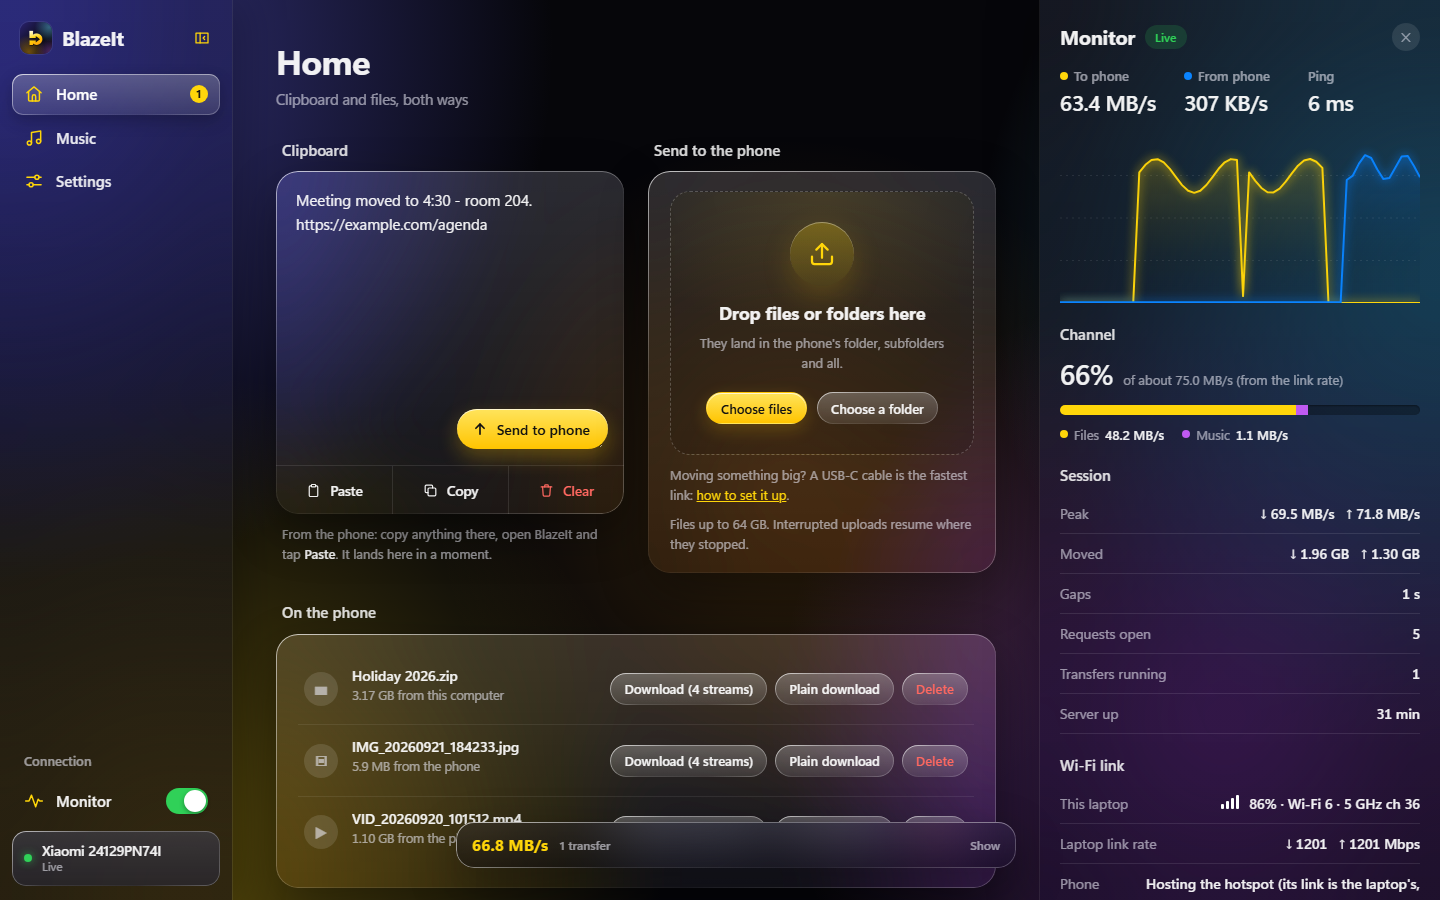
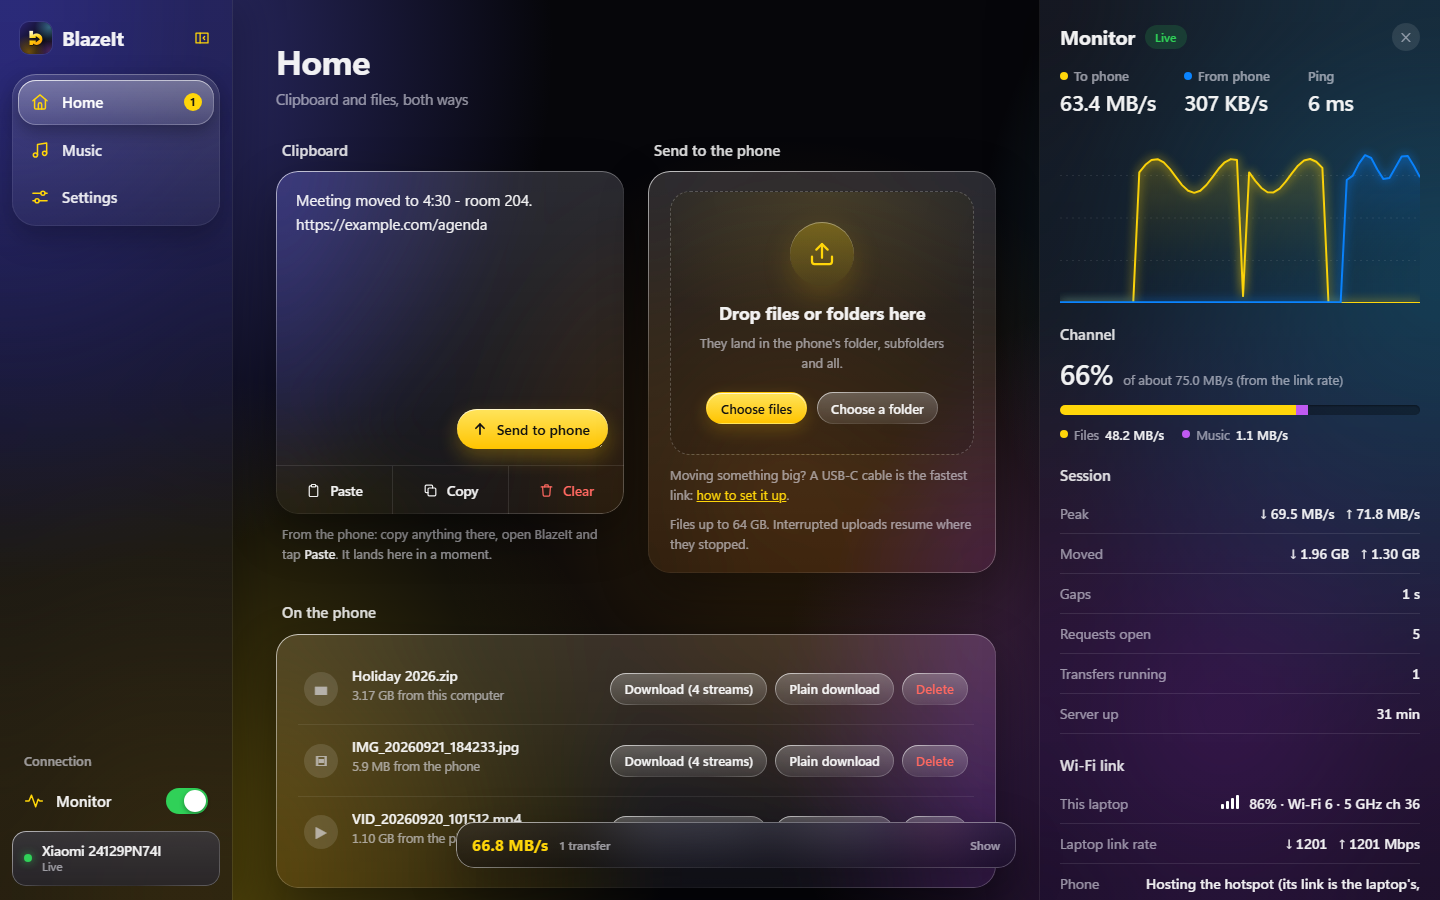
Page: the sidebar as the phone's tab bar, the same lens and switch, size limit
The sidebar's tabs sit in a glass panel like the phone's tab bar, with the same lens:
it slides to the current tab and can be dragged along with the mouse. Every segmented
control has it too, standing proud of its track. Background is the same liquid switch as
on the phone. Settings gains Largest file accepted, from 4 GB to no limit, which sets the
phone's own limit through a new endpoint.

Changed region(s): [[0.0, 0.0622, 0.1562, 0.2489]]

diff --git a/app/src/main/assets/bridge.html b/app/src/main/assets/bridge.html
@@ -722,6 +722,75 @@
   .album-actions .btn { height: 40px; padding: 0 22px; gap: 8px; }
   .album-actions .btn svg { width: 17px; height: 17px; }
   @media (max-width: 700px) { .album-head { flex-direction: column; align-items: flex-start; } }
+
+  /* ================================================================ the liquid lens
+     One glass lens per row of choices, sliding with a little overshoot, following the
+     pointer while dragged. Buttons sit above it and carry no fill of their own. */
+  .liquid { position: relative; isolation: isolate; }
+  .liquid > .lens {
+    position: absolute; left: 0; top: 0; z-index: 0; pointer-events: none; border-radius: 999px;
+    background: linear-gradient(180deg, rgba(255,255,255,.28), rgba(255,255,255,.10));
+    box-shadow: inset 0 1px 0 rgba(255,255,255,.55), inset 0 -1px 0 rgba(255,255,255,.1), 0 6px 18px rgba(0,0,0,.3);
+    transition: transform .5s cubic-bezier(.3, 1.45, .45, 1), width .3s ease, height .3s ease, scale .25s ease, opacity .2s;
+  }
+  .liquid > .lens::before {
+    content: ""; position: absolute; inset: 0; border-radius: inherit; padding: 1px;
+    background: var(--rim); -webkit-mask: linear-gradient(#000 0 0) content-box, linear-gradient(#000 0 0);
+    -webkit-mask-composite: xor; mask-composite: exclude;
+  }
+  .liquid > .lens.instant { transition: scale .25s ease, opacity .2s; }
+  .liquid.dragging > .lens { scale: 1.08; background: linear-gradient(180deg, rgba(255,255,255,.34), rgba(255,255,255,.12)); }
+  .liquid.dragging { cursor: grabbing; user-select: none; }
+  .liquid > button { position: relative; z-index: 1; background: transparent !important; box-shadow: none !important; }
+  .liquid > button::before { display: none !important; }
+  .liquid > button.lit { color: #fff; }
+
+  /* segmented controls: the lens stands proud of the track, like the phone */
+  .seg.liquid { overflow: visible; }
+  .seg.liquid > .lens { margin-top: -3px; padding: 3px 0; box-sizing: content-box; }
+
+  /* the sidebar's tabs, as the phone's tab bar standing upright */
+  .side .tabs {
+    padding: 6px; border-radius: 24px;
+    background: linear-gradient(180deg, rgba(255,255,255,.12), rgba(255,255,255,.04));
+    box-shadow: inset 0 1px 0 rgba(255,255,255,.22), inset 0 0 0 1px rgba(255,255,255,.08), 0 12px 30px rgba(0,0,0,.25);
+  }
+  .side .tabs.liquid > .lens { border-radius: 18px; }
+  .side .tabs > button { border-radius: 18px; padding: 11px 12px; }
+  .side .tabs > button.on, .side .tabs > button.lit { font-weight: 600; }
+  .side .tabs > button.lit svg { stroke: var(--accent); }
+  body.side-collapsed .side .tabs { padding: 5px; }
+  @media (max-width: 900px) { .side .tabs { border-radius: 999px; } .side .tabs.liquid > .lens { border-radius: 999px; } }
+
+  /* the liquid switch: a capsule with its label, and a glass knob that bulges out of it */
+  .set-label { font-size: 14px; font-weight: 600; margin: 0 0 12px; }
+  #size-seg { margin-bottom: 2px; }
+  .lswitch {
+    position: relative; width: 176px; height: 44px; margin: 8px 0 4px; border-radius: 999px; cursor: pointer; user-select: none;
+    background: rgba(0,0,0,.3); box-shadow: inset 0 1px 3px rgba(0,0,0,.45), inset 0 -1px 0 rgba(255,255,255,.12), inset 0 0 0 1px rgba(255,255,255,.06);
+    outline: none;
+  }
+  .lswitch:focus-visible { box-shadow: 0 0 0 3px rgba(255,214,10,.45), inset 0 1px 3px rgba(0,0,0,.45); }
+  .lswitch-label { position: absolute; top: 0; bottom: 0; right: 22px; display: flex; align-items: center; font-size: 16px; font-weight: 600; transition: right .3s, left .3s; }
+  .lswitch.on .lswitch-label { right: auto; left: 22px; }
+  .lswitch-knob {
+    position: absolute; left: 0; top: -5px; width: 54px; height: 54px; border-radius: 50%; display: grid; place-items: center;
+    transform: translateX(-4px);
+    background: linear-gradient(180deg, rgba(255,255,255,.42), rgba(255,255,255,.14));
+    box-shadow: inset 0 1px 0 rgba(255,255,255,.7), inset 0 -2px 6px rgba(255,255,255,.08), 0 10px 26px rgba(0,0,0,.45);
+    -webkit-backdrop-filter: blur(6px) saturate(160%); backdrop-filter: blur(6px) saturate(160%);
+    transition: transform .5s cubic-bezier(.3, 1.45, .45, 1), scale .2s;
+  }
+  .lswitch-knob::before {
+    content: ""; position: absolute; inset: 0; border-radius: 50%; padding: 1.2px; pointer-events: none;
+    background: var(--rim); -webkit-mask: linear-gradient(#000 0 0) content-box, linear-gradient(#000 0 0);
+    -webkit-mask-composite: xor; mask-composite: exclude;
+  }
+  .lswitch.on .lswitch-knob { transform: translateX(126px); }
+  .lswitch.dragging .lswitch-knob { transition: scale .2s; scale: 1.06; }
+  .lswitch-knob svg { width: 24px; height: 24px; fill: none; stroke: #fff; stroke-width: 1.8; stroke-linecap: round; stroke-linejoin: round; }
+  .lswitch .moon, .lswitch.on .sun { display: none; }
+  .lswitch.on .moon { display: block; }
 </style>
 </head>
 <body>
@@ -871,11 +940,26 @@
     <div class="block">
     <div class="bar">Appearance</div>
     <div class="pad">
-      <div class="seg" id="theme-seg">
-        <button data-v="aurora">Aurora</button>
-        <button data-v="oled">OLED black</button>
+      <div class="lswitch" id="theme-switch" role="switch" aria-checked="false" aria-label="OLED black background" tabindex="0">
+        <span class="lswitch-label">Aurora</span>
+        <span class="lswitch-knob"><svg class="sun" viewBox="0 0 24 24" aria-hidden="true"><circle cx="12" cy="12" r="4"/><path d="M12 2.5v2M12 19.5v2M2.5 12h2M19.5 12h2M5.3 5.3l1.4 1.4M17.3 17.3l1.4 1.4M5.3 18.7l1.4-1.4M17.3 6.7l1.4-1.4"/></svg><svg class="moon" viewBox="0 0 24 24" aria-hidden="true"><path d="M19.5 14.5A8 8 0 1 1 9.5 4.5a6.5 6.5 0 0 0 10 10Z"/></svg></span>
       </div>
       <p class="note">Liquid glass either way. OLED black turns the pixels off behind it. The phone and every open page follow this.</p>
+    </div>
+    </div>
+
+    <div class="block">
+    <div class="bar">Receiving on the phone</div>
+    <div class="pad">
+      <div class="set-label">Largest file accepted</div>
+      <div class="seg" id="size-seg">
+        <button data-gb="4">4 GB</button>
+        <button data-gb="12">12 GB</button>
+        <button data-gb="32">32 GB</button>
+        <button data-gb="64">64 GB</button>
+        <button data-gb="0">No limit</button>
+      </div>
+      <p class="note" id="size-note">The same setting as on the phone. With no limit, anything that fits in the phone's free space is accepted.</p>
     </div>
     </div>
 
@@ -1317,6 +1401,120 @@ function selectTab(id) {
     p.hidden = p.dataset.panel !== id;
   });
   if (id === "music") musicOpen();
+}
+
+// ------------------------------------------------------------------ liquid lens
+//
+// Every row of choices -- the sidebar's tabs and each segmented control -- has one glass
+// lens that slides to the current choice with a little overshoot. Press and drag along
+// the row and the lens follows the pointer, swelling slightly; whatever it rests on when
+// you let go is chosen. The same as the phone's tab bar.
+
+function liquid(host) {
+  if (!host || host._lens) return;
+  var lens = document.createElement("i");
+  lens.className = "lens";
+  host.classList.add("liquid");
+  var drag = null;
+  function items() { return Array.prototype.filter.call(host.children, function (c) { return c.tagName === "BUTTON"; }); }
+  function vertical() { return getComputedStyle(host).flexDirection === "column"; }
+  function place(el, instant) {
+    if (lens.parentNode !== host) host.insertBefore(lens, host.firstChild);
+    if (!el || !el.offsetWidth) { lens.style.opacity = 0; return; }
+    if (instant) lens.classList.add("instant");
+    lens.style.opacity = 1;
+    lens.style.transform = "translate(" + el.offsetLeft + "px," + el.offsetTop + "px)";
+    lens.style.width = el.offsetWidth + "px";
+    lens.style.height = el.offsetHeight + "px";
+    if (instant) { void lens.offsetWidth; lens.classList.remove("instant"); }
+  }
+  function update() {
+    if (drag) return;
+    place(items().filter(function (b) { return b.classList.contains("on"); })[0], lens.style.opacity === "");
+  }
+  function nearest(its, p, v) {
+    var best = its[0], bd = Infinity;
+    its.forEach(function (b) {
+      var c = v ? b.offsetTop + b.offsetHeight / 2 : b.offsetLeft + b.offsetWidth / 2;
+      if (Math.abs(c - p) < bd) { bd = Math.abs(c - p); best = b; }
+    });
+    return best;
+  }
+  host.addEventListener("pointerdown", function (e) {
+    if (e.button !== 0) return;
+    drag = { x: e.clientX, y: e.clientY, moved: false, id: e.pointerId, near: null };
+  });
+  host.addEventListener("pointermove", function (e) {
+    if (!drag) return;
+    var v = vertical(), its = items();
+    if (!its.length) return;
+    var d = v ? e.clientY - drag.y : e.clientX - drag.x;
+    if (!drag.moved) {
+      if (Math.abs(d) < 6) return;
+      drag.moved = true;
+      try { host.setPointerCapture(drag.id); } catch (err) {}
+      host.classList.add("dragging");
+    }
+    var r = host.getBoundingClientRect();
+    var p = v ? e.clientY - r.top + host.scrollTop : e.clientX - r.left + host.scrollLeft;
+    var near = nearest(its, p, v);
+    var size = v ? near.offsetHeight : near.offsetWidth;
+    var lo = v ? its[0].offsetTop : its[0].offsetLeft;
+    var last = its[its.length - 1];
+    var hi = v ? last.offsetTop + last.offsetHeight - size : last.offsetLeft + last.offsetWidth - size;
+    var at = Math.max(lo, Math.min(hi, p - size / 2));
+    lens.classList.add("instant");
+    lens.style.transform = v ? "translate(" + near.offsetLeft + "px," + at + "px)" : "translate(" + at + "px," + near.offsetTop + "px)";
+    lens.style.width = near.offsetWidth + "px";
+    lens.style.height = near.offsetHeight + "px";
+    its.forEach(function (b) { b.classList.toggle("lit", b === near); });
+    drag.near = near;
+  });
+  function end() {
+    if (!drag) return;
+    var d = drag;
+    drag = null;
+    host.classList.remove("dragging");
+    lens.classList.remove("instant");
+    items().forEach(function (b) { b.classList.remove("lit"); });
+    if (d.moved && d.near) d.near.click();
+    update();
+  }
+  host.addEventListener("pointerup", end);
+  host.addEventListener("pointercancel", end);
+  new MutationObserver(function () { if (!drag) requestAnimationFrame(update); })
+    .observe(host, { childList: true, subtree: true, attributes: true, attributeFilter: ["class"] });
+  window.addEventListener("resize", update);
+  host._lens = { update: update };
+  requestAnimationFrame(update);
+}
+
+/** The liquid switch: tap, Space or Enter flips it; the knob can also be dragged across. */
+function wireSwitch(sw, onChange) {
+  var knob = sw.querySelector(".lswitch-knob"), drag = null;
+  function travel() { return sw.clientWidth - knob.offsetWidth + 8; }
+  function flip() { onChange(!sw.classList.contains("on")); }
+  sw.addEventListener("keydown", function (e) { if (e.key === " " || e.key === "Enter") { e.preventDefault(); flip(); } });
+  sw.addEventListener("pointerdown", function (e) { drag = { x: e.clientX, on: sw.classList.contains("on"), moved: false, id: e.pointerId }; });
+  sw.addEventListener("pointermove", function (e) {
+    if (!drag) return;
+    var d = e.clientX - drag.x;
+    if (!drag.moved) { if (Math.abs(d) < 5) return; drag.moved = true; try { sw.setPointerCapture(drag.id); } catch (err) {} sw.classList.add("dragging"); }
+    var t = travel(), at = Math.max(0, Math.min(t, (drag.on ? t : 0) + d));
+    knob.style.transform = "translateX(" + (at - 4) + "px)";
+    drag.at = at / t;
+  });
+  function end() {
+    if (!drag) return;
+    var d = drag; drag = null;
+    sw.classList.remove("dragging");
+    knob.style.transform = "";
+    if (!d.moved) { flip(); return; }
+    var now = d.at > 0.5;
+    if (now !== d.on) onChange(now);
+  }
+  sw.addEventListener("pointerup", end);
+  sw.addEventListener("pointercancel", end);
 }
 
 // ------------------------------------------------------------------ clipboard
@@ -2335,6 +2533,14 @@ async function refreshState() {
   if (document.activeElement !== $("clip") && !$("clip").value) $("clip").value = s.clipboard || "";
   renderStreams();
   renderFiles();
+  renderSizeSeg();
+}
+
+function renderSizeSeg() {
+  var gb = state.maxUpload > 1e15 ? 0 : Math.round(state.maxUpload / 1073741824);
+  Array.prototype.forEach.call($("size-seg").children, function (b) {
+    if (b.tagName === "BUTTON") b.classList.toggle("on", parseInt(b.dataset.gb, 10) === gb);
+  });
 }
 
 // ------------------------------------------------------------------ theme
@@ -2347,8 +2553,12 @@ async function refreshState() {
 function applyTheme(oled) {
   document.body.classList.add("glass");
   document.body.classList.toggle("oled", !!oled);
-  var seg = $("theme-seg");
-  if (seg) Array.prototype.forEach.call(seg.children, function (b) { b.classList.toggle("on", (b.dataset.v === "oled") === !!oled); });
+  var sw = $("theme-switch");
+  if (sw) {
+    sw.classList.toggle("on", !!oled);
+    sw.setAttribute("aria-checked", oled ? "true" : "false");
+    sw.querySelector(".lswitch-label").textContent = oled ? "OLED" : "Aurora";
+  }
   try { localStorage.setItem("blazeit.oled", oled ? "1" : "0"); } catch (e) {}
 }
 
@@ -3000,9 +3210,20 @@ function showApp() {
     $("side-collapse").addEventListener("click", function () { setRail(!document.body.classList.contains("side-collapsed")); });
     try { setRail(localStorage.getItem("blazeit.rail") === "1"); } catch (e) {}
     $("usb-link").addEventListener("click", function (e) { e.preventDefault(); selectTab("settings"); });
-    Array.prototype.forEach.call($("theme-seg").children, function (b) {
-      b.addEventListener("click", function () { setOled(b.dataset.v === "oled"); });
+    wireSwitch($("theme-switch"), function (on) { setOled(on); });
+    Array.prototype.forEach.call($("size-seg").children, function (b) {
+      b.addEventListener("click", async function () {
+        var gb = parseInt(b.dataset.gb, 10);
+        try {
+          await api("/api/settings/max-upload", {
+            method: "POST", headers: { "Content-Type": "application/json" },
+            body: JSON.stringify(gb ? { gb: gb } : { unlimited: true }),
+          });
+        } catch (e) {}
+        refreshState();
+      });
     });
+    [["tabs"], ["music-view"], ["streams-seg"], ["size-seg"]].forEach(function (x) { liquid($(x[0])); });
     renderPending();
   } else setMonitor(monitorWanted());
   refreshState();

diff --git a/app/src/main/java/dev/periy/bridge/server/BridgeServer.kt b/app/src/main/java/dev/periy/bridge/server/BridgeServer.kt
@@ -320,6 +320,22 @@ class BridgeServer(
 
     private fun io.ktor.server.routing.Route.themeRoutes() {
         // One shared setting: flipping it here changes the phone and every open page.
+        // The phone's receiving limit, set from a page's Settings; the same choice as on the phone.
+        post("/api/settings/max-upload") {
+            val body = runCatching { call.receive<MaxUploadRequest>() }.getOrNull()
+            val bytes = when {
+                body == null -> null
+                body.unlimited -> Long.MAX_VALUE
+                body.gb in 1..4096 -> body.gb.toLong() shl 30
+                else -> null
+            }
+            if (bytes == null) {
+                call.respond(HttpStatusCode.BadRequest, ApiResult(false, "Pick a size or no limit"))
+            } else {
+                config.setMaxUpload(bytes)
+                call.respond(ApiResult(true))
+            }
+        }
         post("/api/theme") {
             val body = runCatching { call.receive<ThemeRequest>() }.getOrDefault(ThemeRequest())
             config.setOled(body.oled)

diff --git a/app/src/main/java/dev/periy/bridge/server/Model.kt b/app/src/main/java/dev/periy/bridge/server/Model.kt
@@ -61,6 +61,8 @@ class ServerConfig(
     val uploadStreams: () -> Int,
     val oled: () -> Boolean,
     val setOled: (Boolean) -> Unit,
+    /** Sets the largest upload accepted; Long.MAX_VALUE means only free space counts. */
+    val setMaxUpload: (Long) -> Unit,
     val sessionTtlMs: Long = 30L * 24 * 60 * 60 * 1000,
     val deviceName: String,
 )
@@ -113,6 +115,9 @@ data class PairStartDto(val id: String, val code: String, val name: String)
 data class PairStatusDto(val state: String)
 
 @Serializable data class ThemeRequest(val oled: Boolean = false)
+
+/** From the page's Settings: a size in GB, or no limit. */
+@Serializable data class MaxUploadRequest(val gb: Int = 0, val unlimited: Boolean = false)
 
 /** A browser reporting the round trip it measured to this phone. */
 @Serializable data class RttReport(val ms: Int = -1)

diff --git a/app/src/main/java/dev/periy/bridge/BridgeApp.kt b/app/src/main/java/dev/periy/bridge/BridgeApp.kt
@@ -64,6 +64,7 @@ class Container(ctx: Context) {
             uploadStreams = { prefs.uploadStreams },
             oled = { _oled.value },
             setOled = ::setOled,
+            setMaxUpload = { prefs.tusMaxSize = it },
             deviceName = deviceName(),
         )
         return BridgeServer(app, config, storage, tus, index, clipboard, devices, pairing, music)
